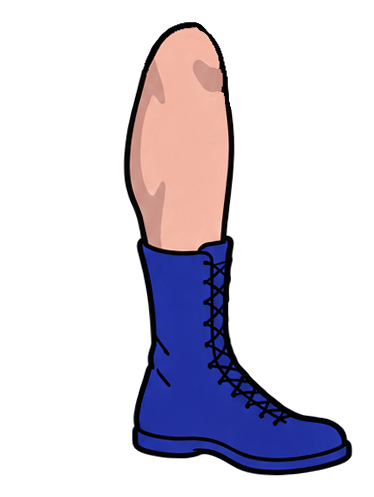
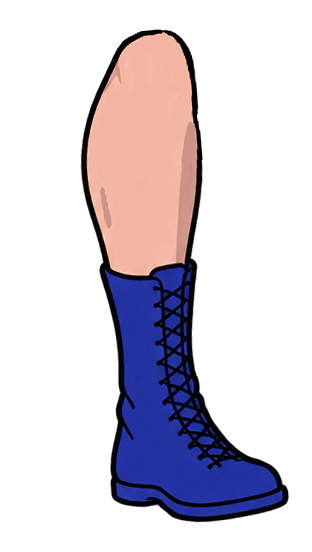
Lou roster rig: back leg reuses the front thigh and shin art
The PSD's back-leg art was wider and shorter than the front and read swollen once
fitted to the same bone. Hand edit; prepare-lou-roster.py would regenerate the
original back-leg art.

Changed region(s): [[0.2596, 0.0302, 0.9519, 0.9658]]

diff --git a/src/characters/thesz_roster_v1.js b/src/characters/thesz_roster_v1.js
@@ -165,51 +165,51 @@ export const theszRosterV1 = {
     "farThigh": {
         "key": "thesz_rv1_far_thigh",
         "box": {
-            "w": 33.95907611764193,
-            "h": 64.84311778368637
+            "w": 36.20911584340802,
+            "h": 63.433006644192574
         },
-        "jointPivotFrac": 0.16439281206589745,
-        "pivotOffsetFrac": -0.0017836530527102767,
+        "jointPivotFrac": 0.16182602214333283,
+        "pivotOffsetFrac": 9.280872402461782e-05,
         "distalAnchorFrac": {
-            "u": 0.4982163469472897,
-            "v": 0.8446997725930347
+            "u": 0.5000928087240246,
+            "v": 0.8438804207377105
         },
         "binding": {
             "proximal": {
-                "u": 0.4982163469472897,
-                "v": 0.16439281206589745
+                "u": 0.5000928087240246,
+                "v": 0.16182602214333283
             },
             "distal": {
-                "u": 0.4982163469472897,
-                "v": 0.8446997725930347
+                "u": 0.5000928087240246,
+                "v": 0.8438804207377105
             }
         }
     },
     "farShin": {
         "key": "thesz_rv1_far_shin",
         "box": {
-            "w": 38.52753302271306,
-            "h": 68.26447027553793
+            "w": 43.27137572607151,
+            "h": 76.55704936151113
         },
-        "jointPivotFrac": 0.14154338184685702,
-        "pivotOffsetFrac": -0.00047463682164755605,
+        "jointPivotFrac": 0.13318558241042655,
+        "pivotOffsetFrac": 0.0003216979744079529,
         "distalAnchorFrac": {
-            "u": 0.49952536317835244,
-            "v": 0.7650408001425071
+            "u": 0.500321697974408,
+            "v": 0.7884700010595034
         },
         "binding": {
             "proximal": {
-                "u": 0.49952536317835244,
-                "v": 0.14154338184685702
+                "u": 0.500321697974408,
+                "v": 0.13318558241042655
             },
             "distal": {
-                "u": 0.49952536317835244,
-                "v": 0.7650408001425071
+                "u": 0.500321697974408,
+                "v": 0.7884700010595034
             }
         },
         "soleAnchorFrac": {
-            "u": 0.6008838701767663,
-            "v": 0.941323808557545
+            "u": 0.6353346248261362,
+            "v": 0.9421308462361402
         }
     }
 },
